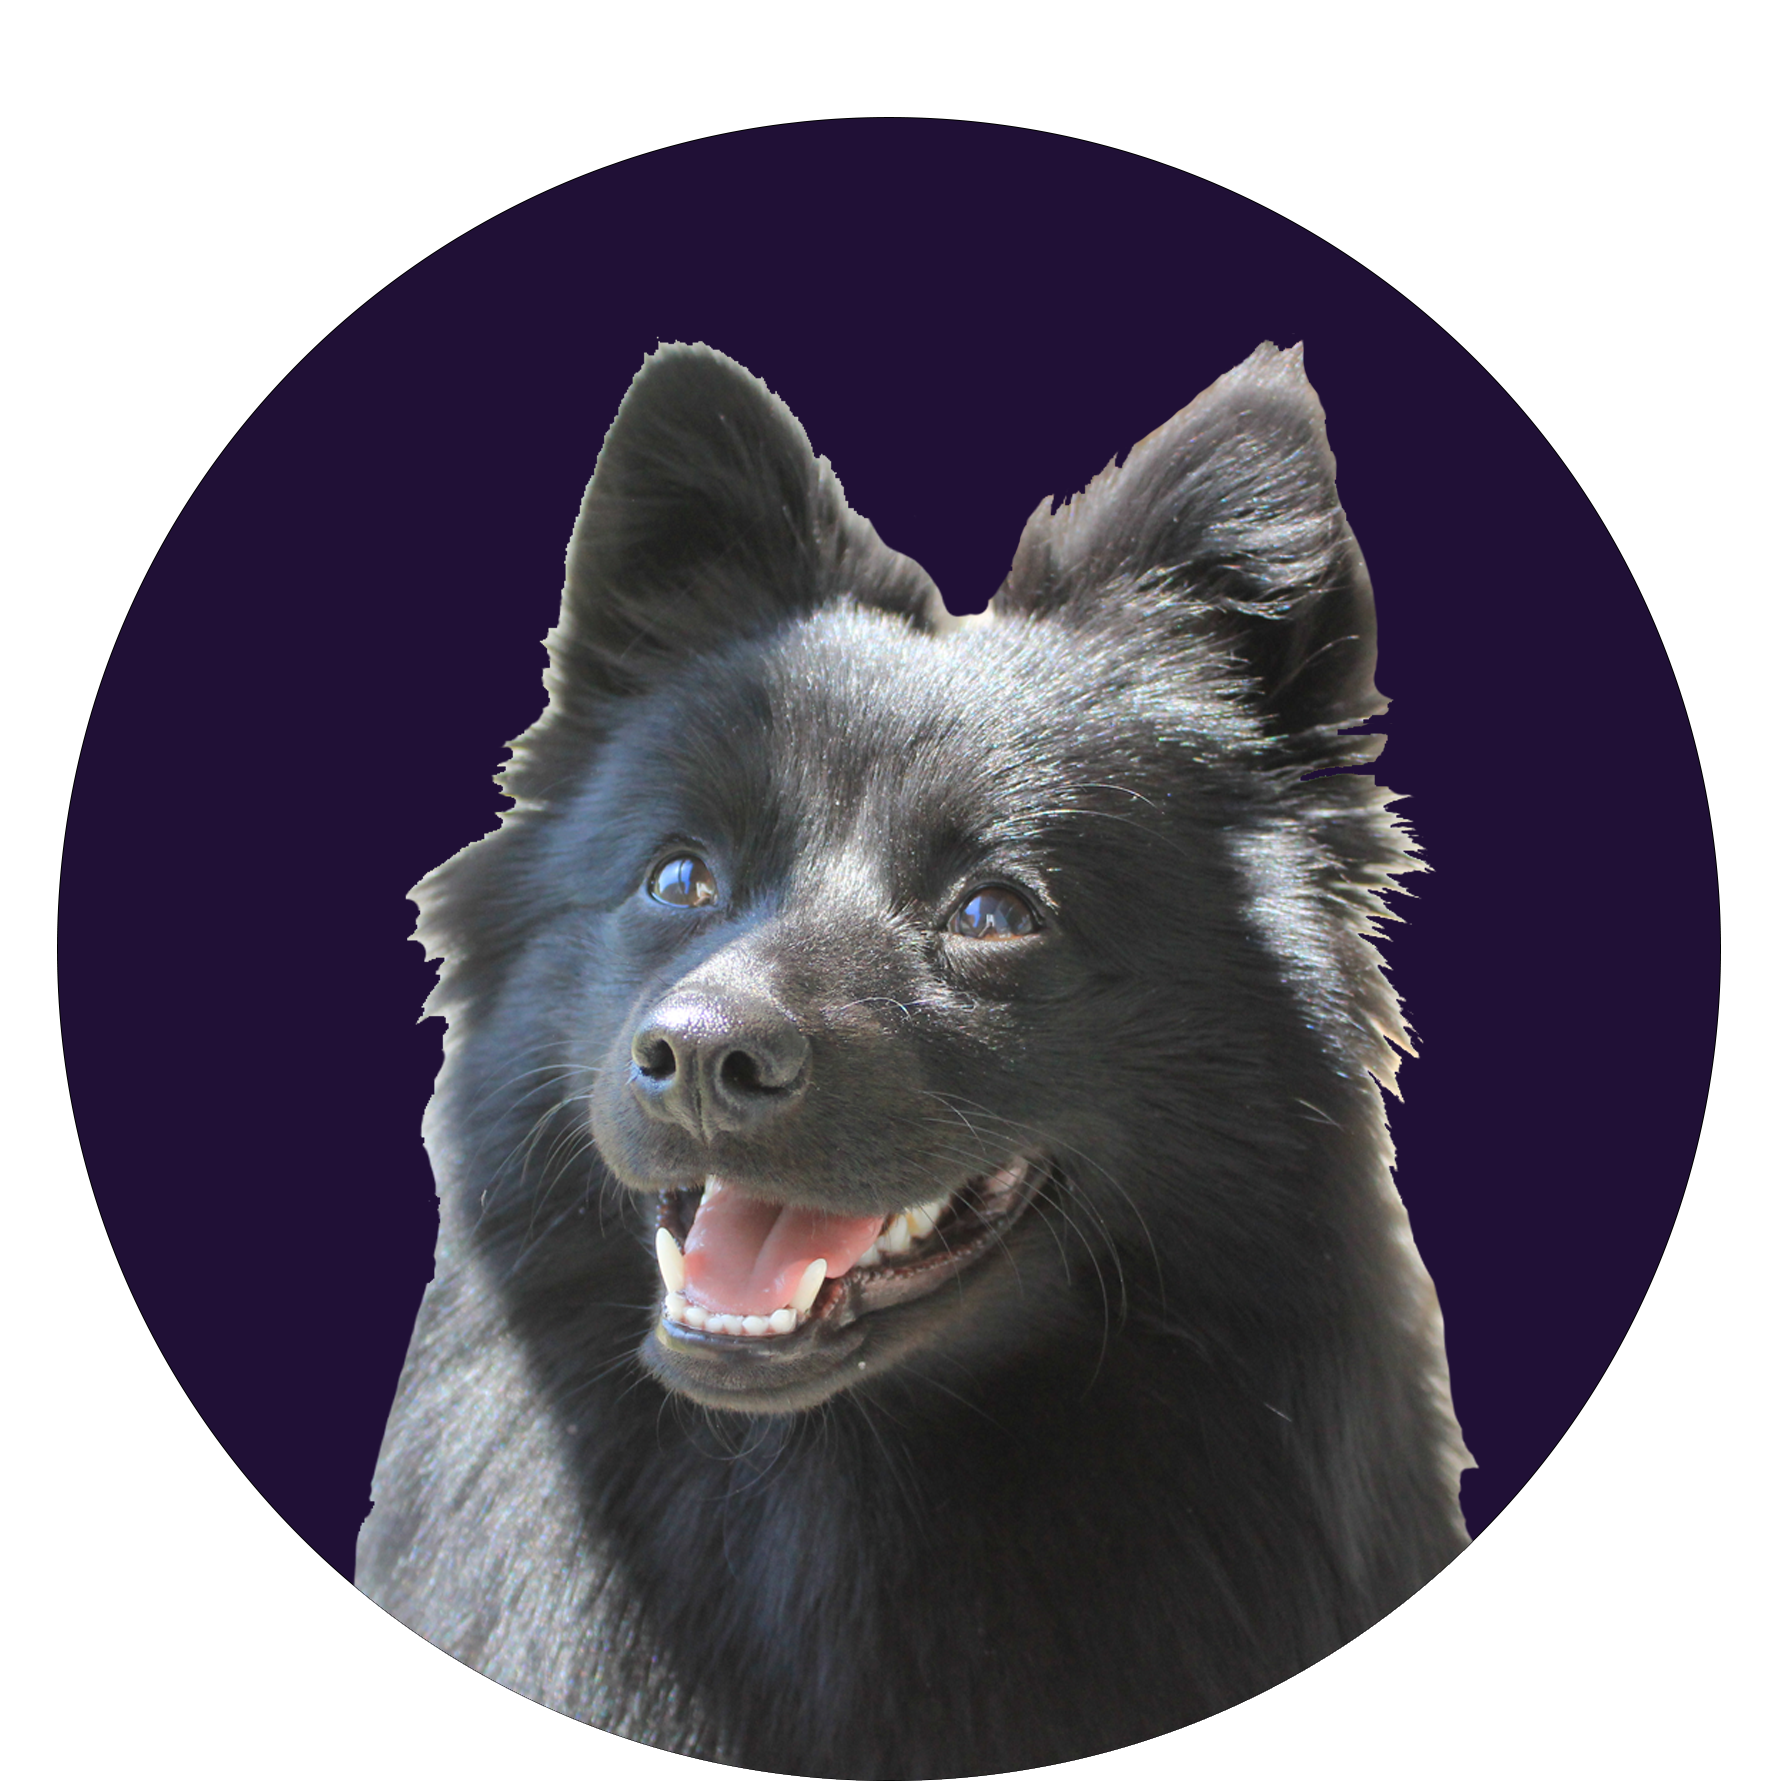
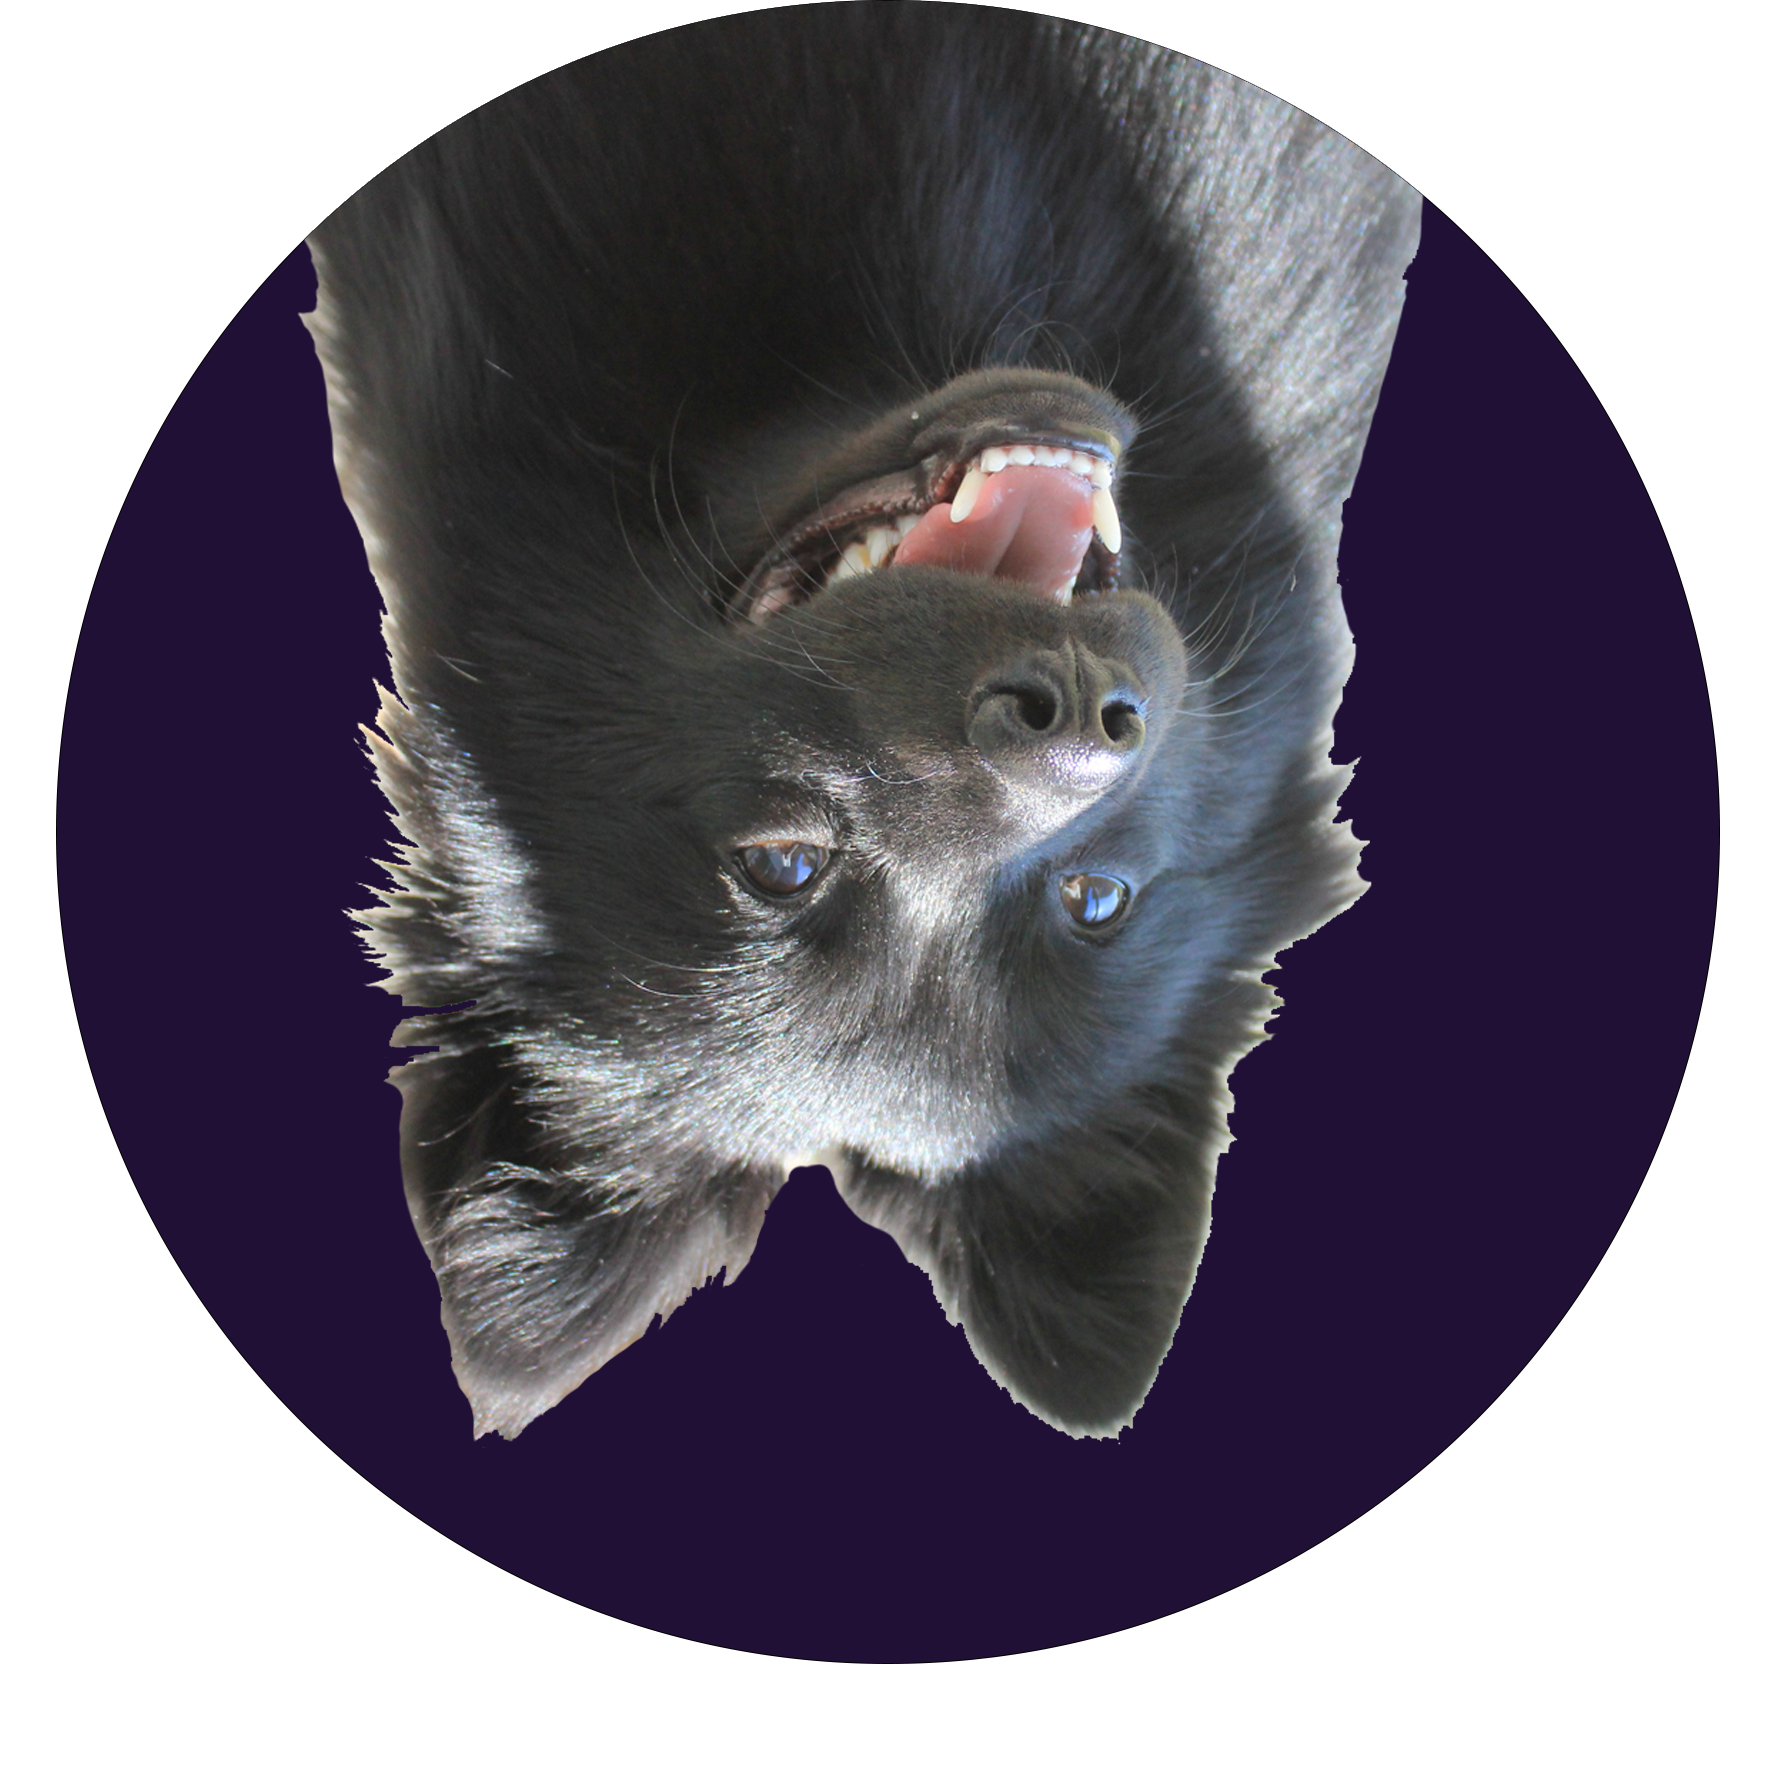
cleo header

diff --git a/scripts/cleo.js b/scripts/cleo.js
@@ -4,15 +4,29 @@ window.addEventListener("DOMContentLoaded", start);
 
 function start() {
   console.log("Hello this is my dog");
-  /*   let goBack = document.querySelector(".go-back-ani");
-  gsap.to(goBack, {
-    delay: 1.1,
-    duration: 2,
-    y: "0%",
-    opacity: 1,
+  let cleoImg = document.querySelector(".header-cleo-img");
+  let cleoText = document.querySelector(".cleo-text");
+  let galleryH = document.querySelector("h2");
+  let tl = gsap.timeline({ repeat: 0, repeatDelay: 1 });
+  tl.to(cleoImg, {
+    duration: 2.5,
+    x: "-5%",
+    rotation: -190,
+    transformOrigin: "center",
     ease: Power2.easeOut,
-  }); */
-
+  });
+  tl.to(cleoImg, {
+    duration: 1.5,
+    x: "0%",
+    rotation: -180,
+    transformOrigin: "center",
+    ease: Bounce.easeOut,
+  });
+  tl.to(cleoText, { duration: 0.2, opacity: 0, y: "5rem" });
+  tl.to(cleoText, { duration: 0.5, opacity: 1, y: "-2rem" });
+  tl.to(cleoText, { duration: 0.8, opacity: 1, ease: Bounce.easeOut, y: 0 });
+  tl.to(galleryH, { duration: 0.1, opacity: 0 });
+  tl.to(galleryH, { duration: 1, opacity: 1 });
   frontpageScrollAnimations();
 }
 function frontpageScrollAnimations() {
@@ -52,4 +66,13 @@ function frontpageScrollAnimations() {
       end: "bottom 40%",
     },
   });
+
+  /*   let goBack = document.querySelector(".go-back-ani");
+  gsap.to(goBack, {
+    delay: 1.1,
+    duration: 2,
+    y: "0%",
+    opacity: 1,
+    ease: Power2.easeOut,
+  }); */
 }

diff --git a/my_dog.html b/my_dog.html
@@ -38,20 +38,20 @@
       </div>
     </nav>
     <header id="cleo-header">
-      <div class="cleo-text">
+      <div class="cleo-text hidden">
         <h1>Hi, this is <span class="h1-bold">Cleo</span></h1>
+        <p>She is a German Spitz and 1.5 years old</p>
       </div>
-
       <div class="header-cleo-img-container">
         <img
-          class="header-cleo-img"
+          class="header-cleo-img cleo-header-right"
           src="img/cleo/cleo_profile_img.png"
           alt="Freja Smith-Pedersen"
         />
       </div>
     </header>
     <main id="cleo" class="cleo-page">
-      <h2>Gallery</h2>
+      <h2 class="hidden">Gallery</h2>
       <section id="cleo-first-section" class="cleo-left">
         <img
           class="cleo-gallery-img"

diff --git a/style.css b/style.css
@@ -598,6 +598,14 @@ footer .copyright {
   position: relative;
   z-index: 1;
 }
+.cleo-text h1 {
+  margin-bottom: 0.5rem;
+}
+
+.cleo-text p {
+  margin-left: 0.3rem;
+}
+
 .header-cleo-img-container {
   display: flex;
   justify-content: center;
@@ -732,7 +740,7 @@ footer .copyright {
   /*CLEO PAGE*/
   #cleo-header {
     display: flex;
-    flex-direction: row-reverse;
+    flex-direction: row;
     justify-content: center;
     align-items: center;
     gap: 8rem;
@@ -850,6 +858,10 @@ footer .copyright {
 
 .bottom {
   transform: translateY(100%);
+}
+
+.cleo-header-right {
+  transform: translateX(220%);
 }
 
 .cleo-right {
